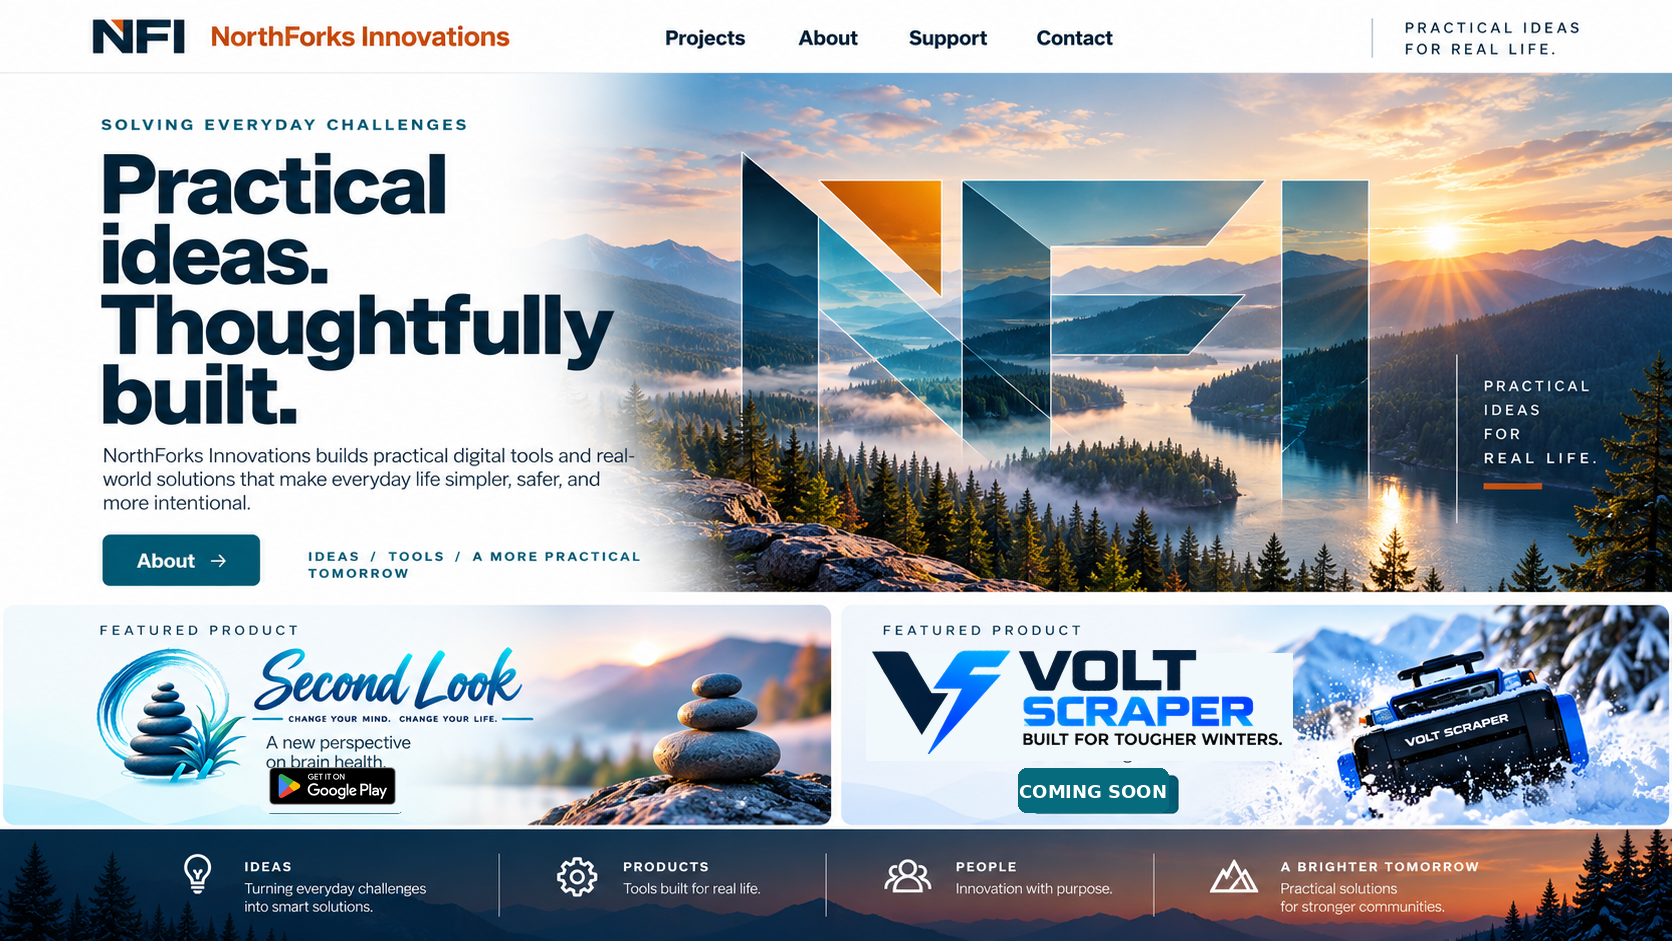
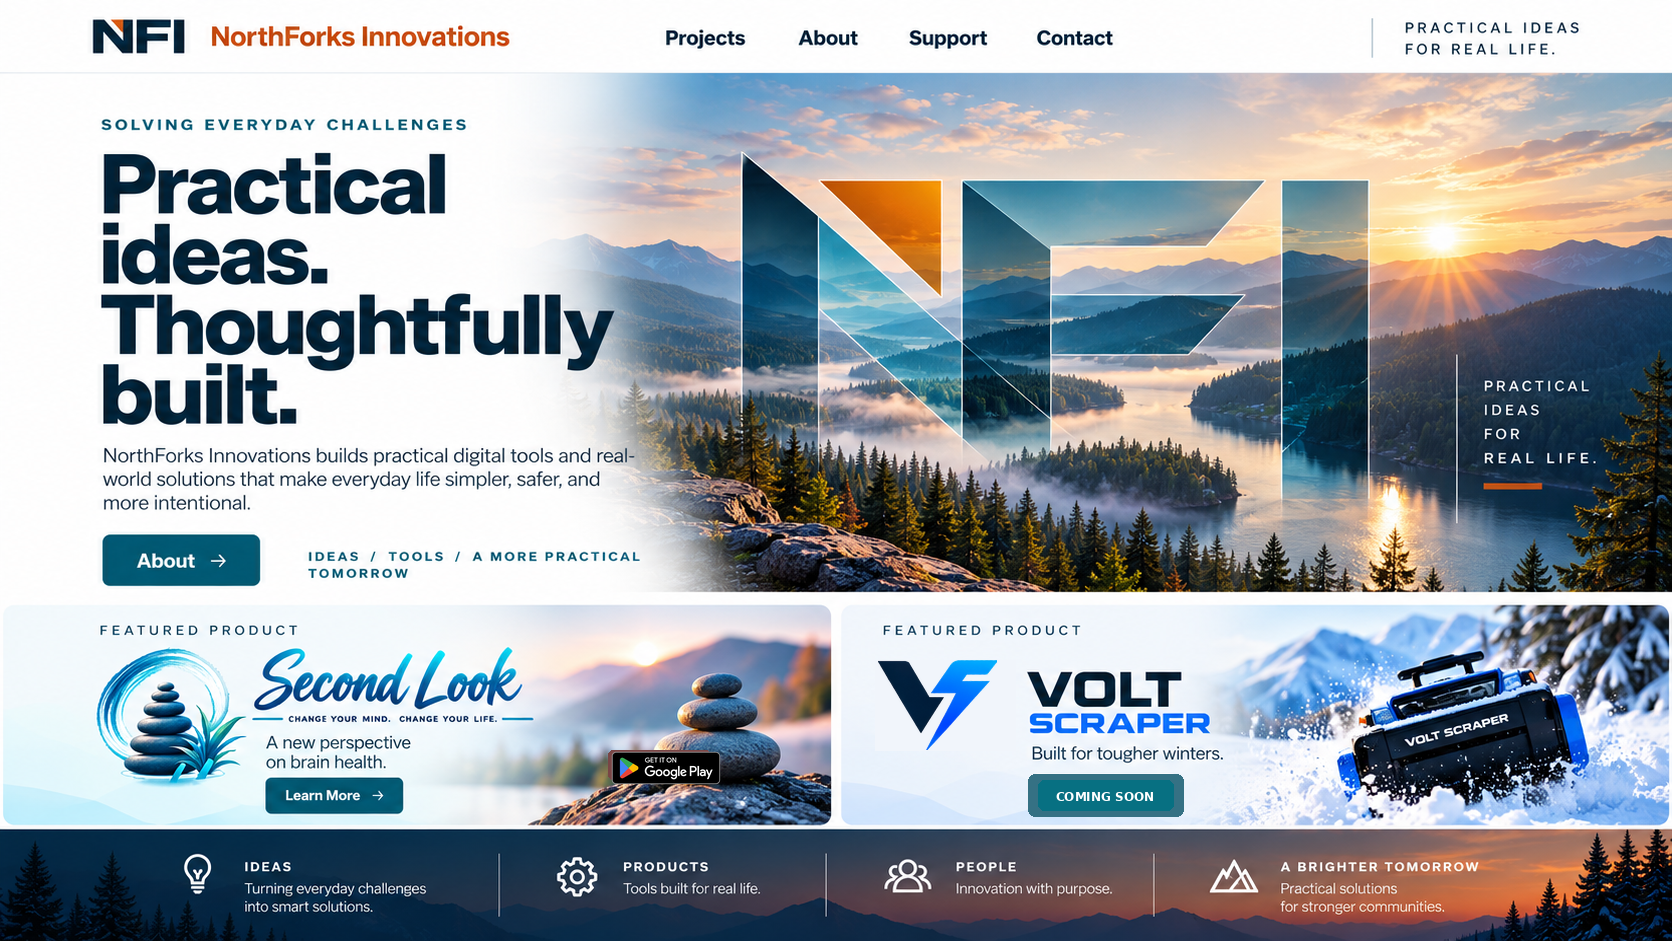
Add files via upload

Changed region(s): [[0.5287, 0.678, 0.7775, 0.8937], [0.1555, 0.8013, 0.2488, 0.8629], [0.3421, 0.7705, 0.4354, 0.8321]]

diff --git a/index.html b/index.html
@@ -1,28 +1,8 @@
-<!doctype html>
-<html lang="en">
-<head>
-<meta charset="utf-8">
+<!doctype html><html lang="en"><head><meta charset="utf-8">
 <meta name="viewport" content="width=device-width,initial-scale=1">
-<meta name="google-site-verification" content="Thd7Ay5Cyt2tpg57DNieLRD5wOYueE0yAwuBG7Hm_iA">
-<meta name="description" content="NorthForks Innovations, LLC develops practical digital and physical products for everyday life.">
 <title>NorthForks Innovations, LLC</title>
-<style>
-*{box-sizing:border-box} html,body{margin:0;padding:0;background:#fff}
-.page{position:relative;width:100%;line-height:0}
-.page img{display:block;width:100%;height:auto}
-.hot{position:absolute;display:block;z-index:5}
-</style>
-</head>
-<body>
-<main class="page">
-<img src="homepage-approved-final.png" alt="NorthForks Innovations — Practical ideas. Thoughtfully built.">
-<a class="hot" aria-label="Projects" href="#projects" style="left:39%;top:1%;width:7%;height:5%"></a>
-<a class="hot" aria-label="Contact" href="mailto:tiramgamliel@gmail.com" style="left:61%;top:1%;width:7%;height:5%"></a>
-<span id="projects" style="position:absolute;left:0;top:63%"></span>
-<a class="hot" aria-label="Get Second Look on Google Play"
-   href="https://play.google.com/store/apps/details?id=com.cbflow.app"
-   target="_blank" rel="noopener"
-   style="left:15.5%;top:80.5%;width:9.5%;height:5.5%"></a>
-</main>
-</body>
-</html>
+<style>*{box-sizing:border-box}html,body{margin:0;background:#fff}.page{position:relative;width:100%;line-height:0}.page img{display:block;width:100%;height:auto}.hot{position:absolute;display:block;z-index:2}</style>
+</head><body><main class="page">
+<img src="homepage-approved-final.png" alt="NorthForks Innovations homepage">
+<a class="hot" aria-label="Get Second Look on Google Play" href="https://play.google.com/store/apps/details?id=com.cbflow.app" target="_blank" rel="noopener" style="left:36.1%;top:79.0%;width:8.2%;height:5.2%"></a>
+</main></body></html>
